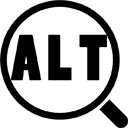
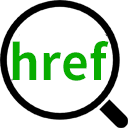
base64追加

Changed region(s): [[0.0625, 0.25, 0.8438, 0.6562]]

diff --git a/dest/check.js b/dest/check.js
@@ -45,7 +45,7 @@
     rpBox = void 0;
     removeDOMElement('ALP_ReportBox');
     (function(pg) {
-      var a, blacklist, blacklisted, cacheType, checkType, e, h, i, j, matas, meta_txt, r, rbClose, rbHeader, rbSettings, rcss, reportBox, reportStyle, rid, scrollTo, tblcss, tdlcss, tdrcss, titles;
+      var a, blacklist, blacklisted, cacheType, checkType, e, h, i, j, r, rbClose, rbHeader, rbSettings, rcss, reportBox, reportStyle, rid, scrollTo, tblcss, tdlcss, tdrcss;
       blacklist = request.bl;
       blacklisted = void 0;
       cacheType = request.ca;
@@ -76,22 +76,22 @@
       tblcss = void 0;
       tdlcss = void 0;
       tdrcss = void 0;
-      rid = 'ALT_VIEWER_PLUS';
+      rid = 'HREF_VIEWER_PLUS';
       e = function(t) {
         return document.getElementsByTagName(t);
       };
       a = function(o, a) {
         var att;
         att = o.getAttribute(a);
-        if (a === 'alt' && att === null) {
-          return 'alt未設定';
+        if (a === 'href' && att === null) {
+          return 'href未設定';
         }
         return att;
       };
       if (document.getElementById(rid)) {
         return;
       }
-      i = e('img');
+      i = e('a');
       if (i.length <= 0) {
         return;
       }
@@ -105,53 +105,11 @@
       h = '<style>\n@-webkit-keyframes anime1 {\n0% {opacity: .2;}\n100% {opacity: 1;}\n}\n.img_blink{-webkit-animation: anime1 0.5s ease 0s infinite alternate;}\n</style>';
       h += '<table' + tblcss + ' class="ATT_VIEWER_TABLE">';
       j = 0;
-      h += '<tr><td colspan="2" style="padding:1em 0 0 1em;border-bottom:solid #fff 2px;text-align:left;color:#fff;white-space:pre-wrap;max-width:500px;line-height:1;font-size: 12px;">';
-      h += '<span class="ALT_VIEWER_CLOSE" style="background-color: hsla(0,100%,100%,1);color: #000;position: absolute;right: 0;top: 0;padding: 0.5em 1em;">Close✕</span>';
-      matas = '';
-      Array.prototype.forEach.apply(document.querySelectorAll('title, meta, h1'), [
-        function(e, i, a) {
-          var i;
-          var attrs, inn, out;
-          out = e.outerHTML.replace(/&/g, '&amp;').replace(/"/g, '&quot;').replace(/'/g, '&#39;').replace(/</g, '&lt;').replace(/>/g, '&gt;') + '\n';
-          inn = e.innerHTML;
-          out.replace(inn, '<span style="color:#F0EA30;">' + inn + '</span>');
-          attrs = e.attributes;
-          i = attrs.length - 1;
-          while (i >= 0) {
-            out = out.replace(new RegExp(attrs[i].name, 'g'), '<span style="color:#70BE47;">' + attrs[i].name + '</span>').replace(new RegExp(attrs[i].value, 'g'), '<span style="color:#F55A21;">' + attrs[i].value + '</span>');
-            i--;
-          }
-          matas += out + '\n';
-        }
-      ]);
-      meta_txt = matas;
-      h += meta_txt;
-      h += '</td></tr>';
       while (j < i.length) {
         h += j % 252 === 0 ? '<tr>' : '<tr>';
-        h += '<td' + tdlcss + '><img style=\'max-width: 350px;vertical-align:bottom; margin: 10px 0 10px 10px; box-sizing: border-box;\' src=' + a(i[j], 'src') + '></td><td' + tdrcss + '>' + a(i[j], 'alt') + '</td></tr>';
+        h += '<td' + tdlcss + '><img style=\'max-width: 350px;vertical-align:bottom; margin: 10px 0 10px 10px; box-sizing: border-box;\' src=' + a(i[j], 'src') + '></td><td' + tdrcss + '>' + a(i[j], 'href') + '</td></tr>';
         j++;
       }
-      titles = '';
-      Array.prototype.forEach.apply(document.querySelectorAll('[title]'), [
-        function(e, i, a) {
-          var i;
-          var attrs, newout, out, title;
-          out = e.outerHTML.replace(/&/g, '&amp;').replace(/"/g, '&quot;').replace(/'/g, '&#39;').replace(/</g, '&lt;').replace(/>/g, '&gt;') + '\n';
-          attrs = e.attributes;
-          i = attrs.length - 1;
-          while (i >= 0) {
-            if (attrs[i].name === 'title') {
-              title = attrs[i].value;
-              newout = out.replace('title', '<span style="color:#70BE47;">title</span>').replace(title, '<span style="color:#F55A21;">' + title + '</span>');
-              h += '<tr><td' + tdlcss + ' style=\'max-width: 350px;vertical-align:top;\'><span style=\'max-width: 350px;display: inline-block;line-height:1;font-size: 12px;color: #fff;text-align: left;padding:.5em 0 0 .5em;overflow: hidden;\'>' + newout + '</span></td>';
-              h += '<td class="ALT_VIEWER_TITLE" style="padding:1em 0 1em 1em;border-bottom:solid #fff 2px;text-align:left;background-color:hsla(0,0%,0%,.45);color:#F55A21;width:250px;overflow: hidden;vertical-align: top;">' + title + '</td></tr>';
-            }
-            i--;
-          }
-          titles += out + '\n';
-        }
-      ]);
       h += '</table>';
       e('body')[0].appendChild(r);
       r.innerHTML = h;
@@ -174,7 +132,7 @@
         }), 10);
       };
       r.onclick = function() {};
-      document.querySelector('.ALT_VIEWER_CLOSE').onclick = function() {
+      document.querySelector('.HREF_VIEWER_CLOSE').onclick = function() {
         var i;
         i = r.childNodes.length - 1;
         while (i >= 0) {
@@ -213,7 +171,7 @@
           }), false);
         }
       ]);
-      Array.prototype.forEach.apply(document.querySelectorAll('.ATT_VIEWER_TABLE .ALT_VIEWER_TITLE'), [
+      Array.prototype.forEach.apply(document.querySelectorAll('.ATT_VIEWER_TABLE .HREF_VIEWER_TITLE'), [
         function(e, i, a) {
           e.addEventListener('mouseover', (function(event) {
             var title;
@@ -223,7 +181,7 @@
           }), false);
         }
       ]);
-      Array.prototype.forEach.apply(document.querySelectorAll('.ATT_VIEWER_TABLE .ALT_VIEWER_TITLE'), [
+      Array.prototype.forEach.apply(document.querySelectorAll('.ATT_VIEWER_TABLE .HREF_VIEWER_TITLE'), [
         function(e, i, a) {
           e.addEventListener('mouseout', (function(event) {
             var title;
